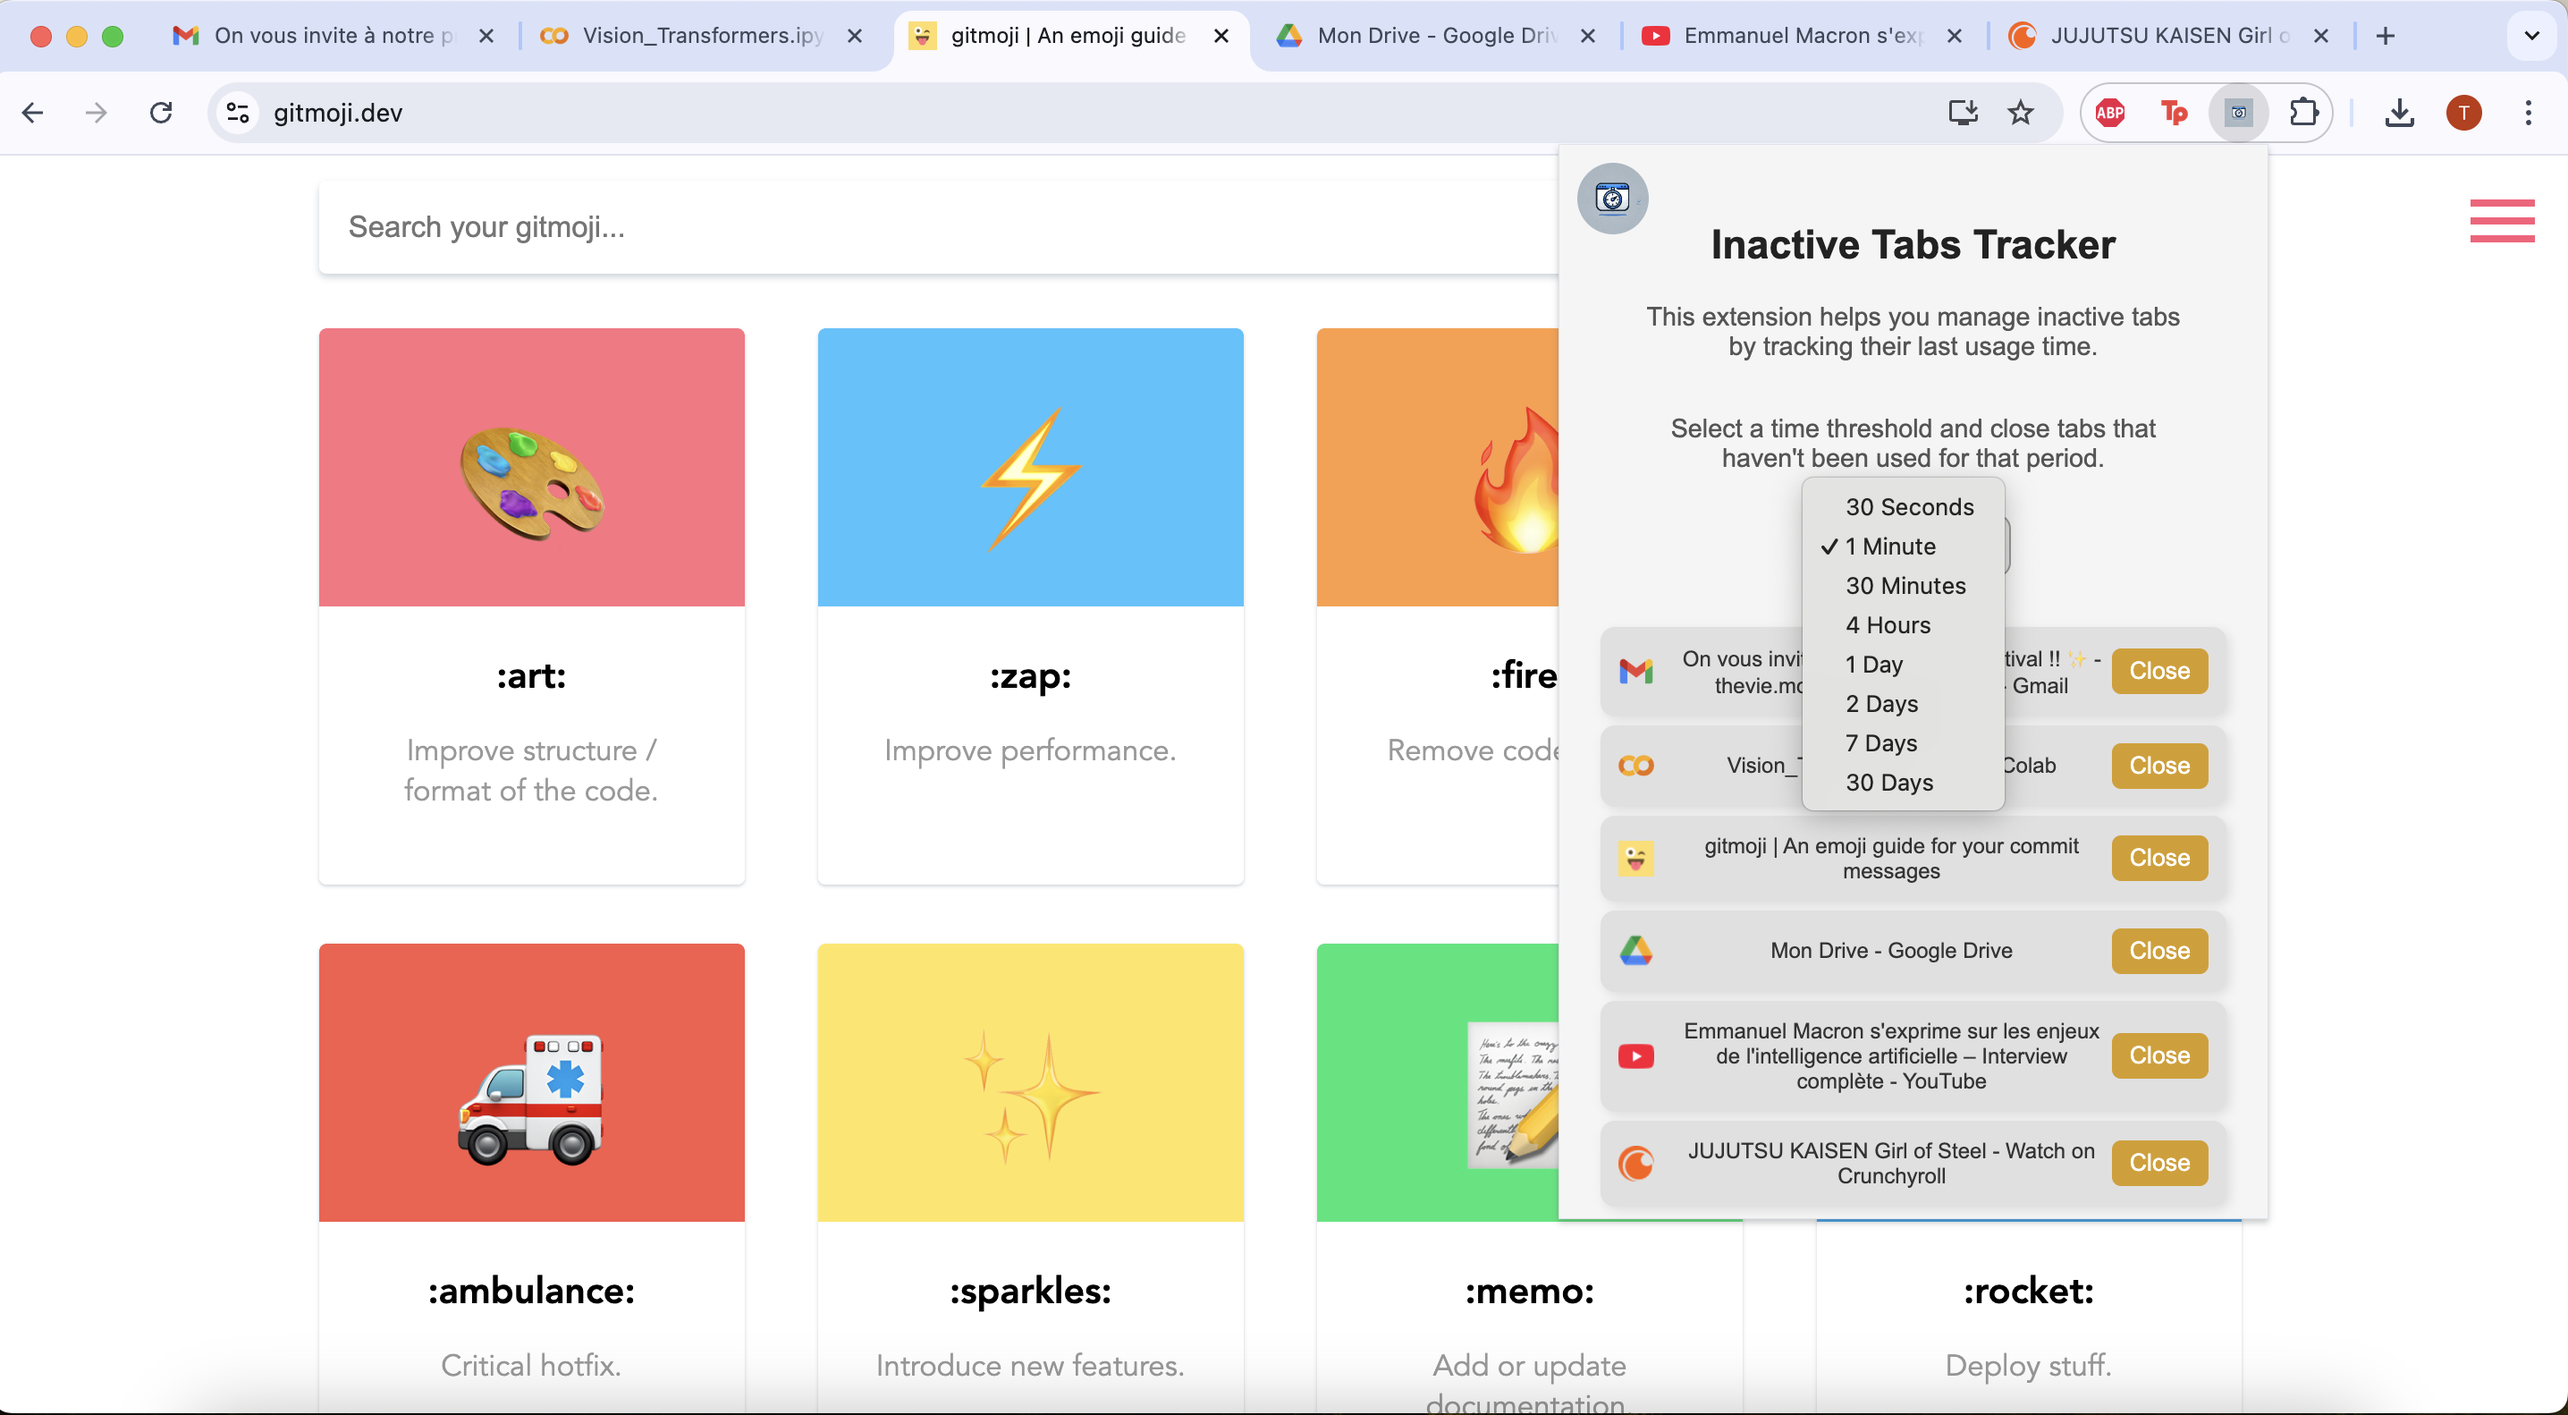
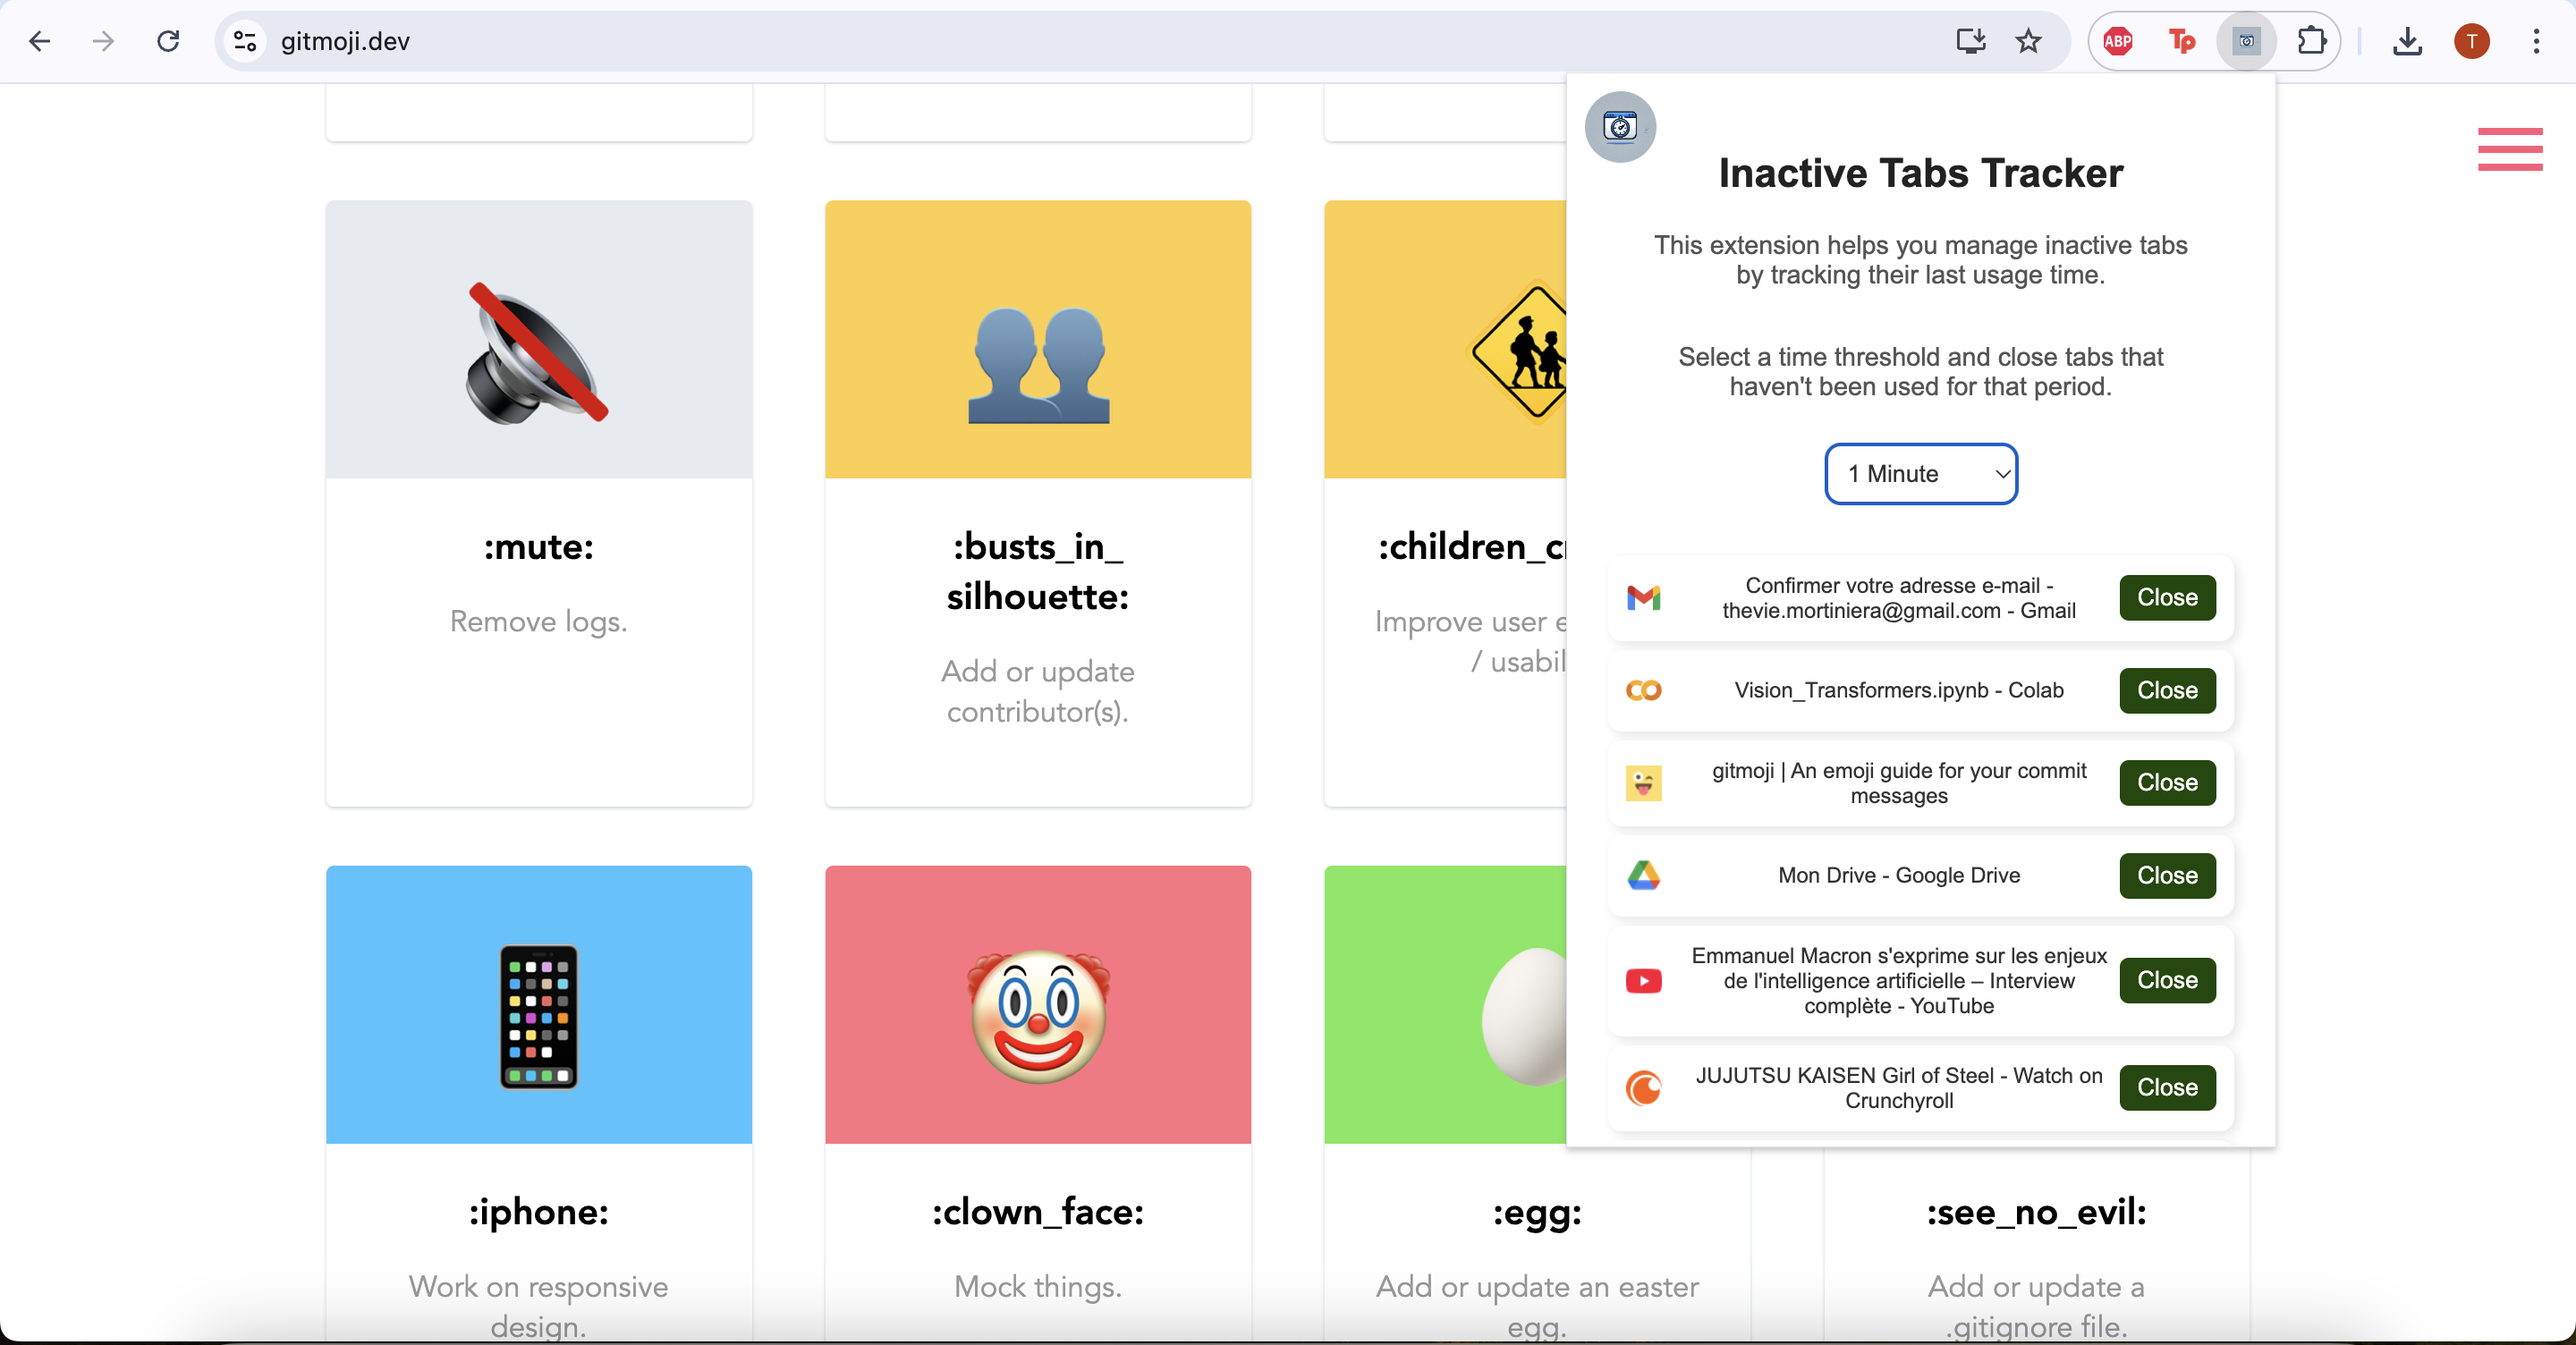
🎨 updated UI colors

diff --git a/popup.css b/popup.css
@@ -1,8 +1,7 @@
 /* General Styling */
 body {
     font-family: 'Arial', sans-serif;
-    background: #F5F5F5;
-    /* Light Gray */
+    background: #ffffff;
     color: #333;
     width: 350px;
     padding: 15px;
@@ -35,7 +34,7 @@ h2 {
 }
 
 select {
-    background: #E0E0E0;
+    background: #ffffff;
     color: #333;
     border: 1px solid #999;
     border-radius: 8px;
@@ -51,7 +50,7 @@ select {
 .tab-item {
     display: flex;
     align-items: center;
-    background: #E0E0E0;
+    background: #ffffff;
     padding: 10px;
     margin: 5px 0;
     border-radius: 8px;
@@ -66,7 +65,7 @@ select {
 }
 
 .close-btn {
-    background: #d69e1b;
+    background: #184801;
     color: white;
     border: none;
     padding: 5px 10px;
